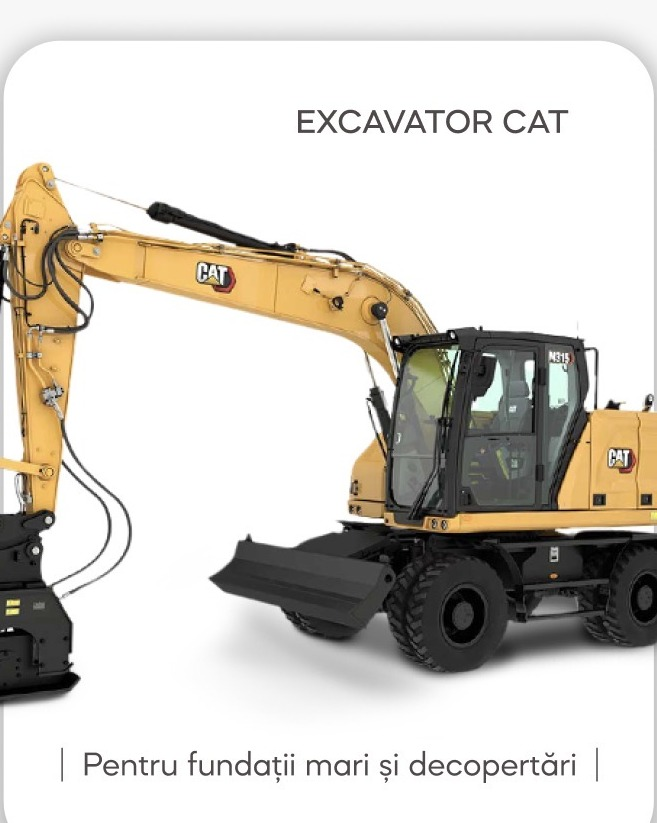
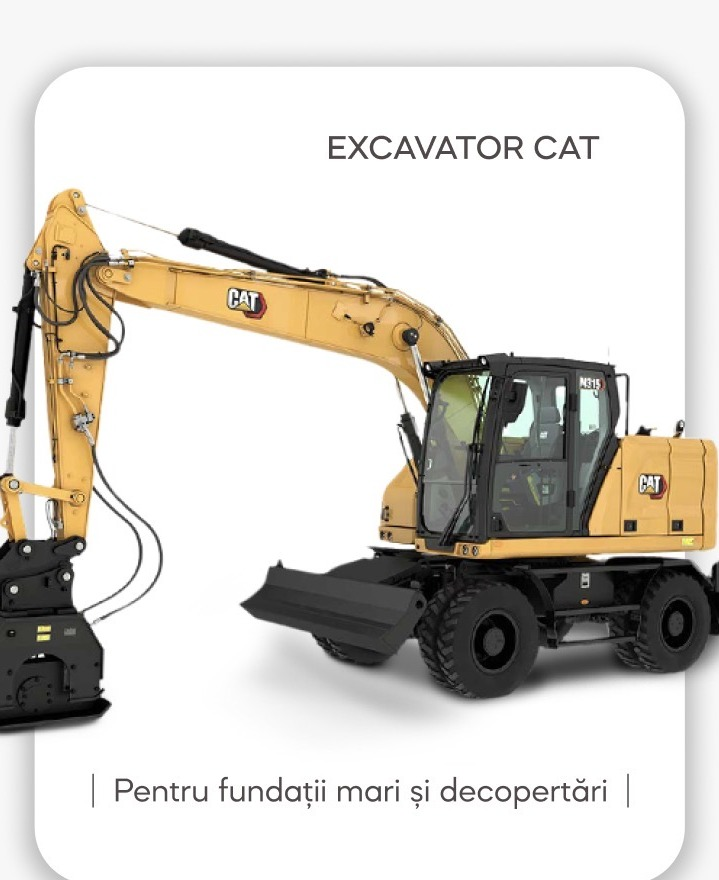
Re-crop machine cards with margin so the shadow isn't clipped
Add padding around each card in the source crop to keep its rounded
corners and drop shadow intact, and drop the CSS border-radius/
box-shadow that was double-clipping the image's own baked-in card look.

Claude-Session: https://claude.ai/code/session_01EKzYqcdtUEQZAvWVc1pkM7

Changed region(s): [[0.0, 0.0304, 1.0, 1.0], [0.1218, 0.8809, 0.8828, 0.9417], [0.4566, 0.1215, 0.8524, 0.1823]]

diff --git a/css/style.css b/css/style.css
@@ -447,8 +447,7 @@ h1,h2,h3,h4{ margin: 0; font-weight: 700; }
 }
 .machine-card-img{
   width: 100%;
-  border-radius: 24px;
-  box-shadow: 0 18px 40px -24px rgba(0,0,0,.3);
+  display: block;
 }
 
 .machine-card--extra{ display: none; }
